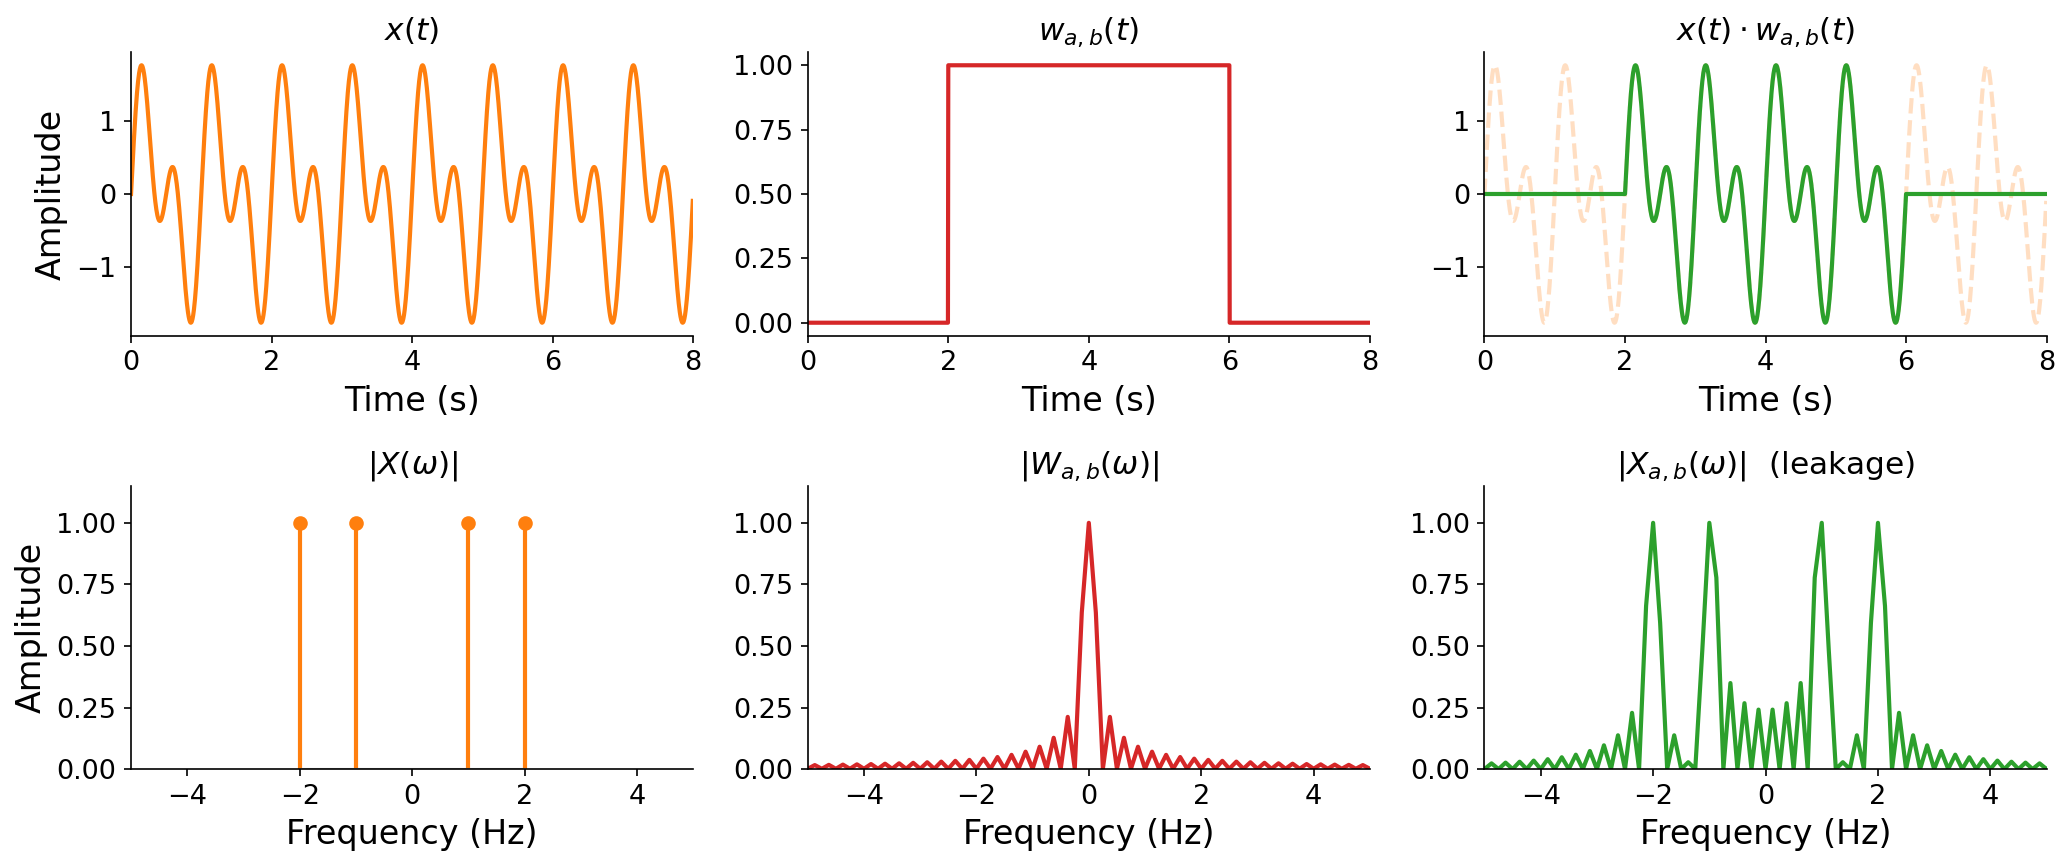
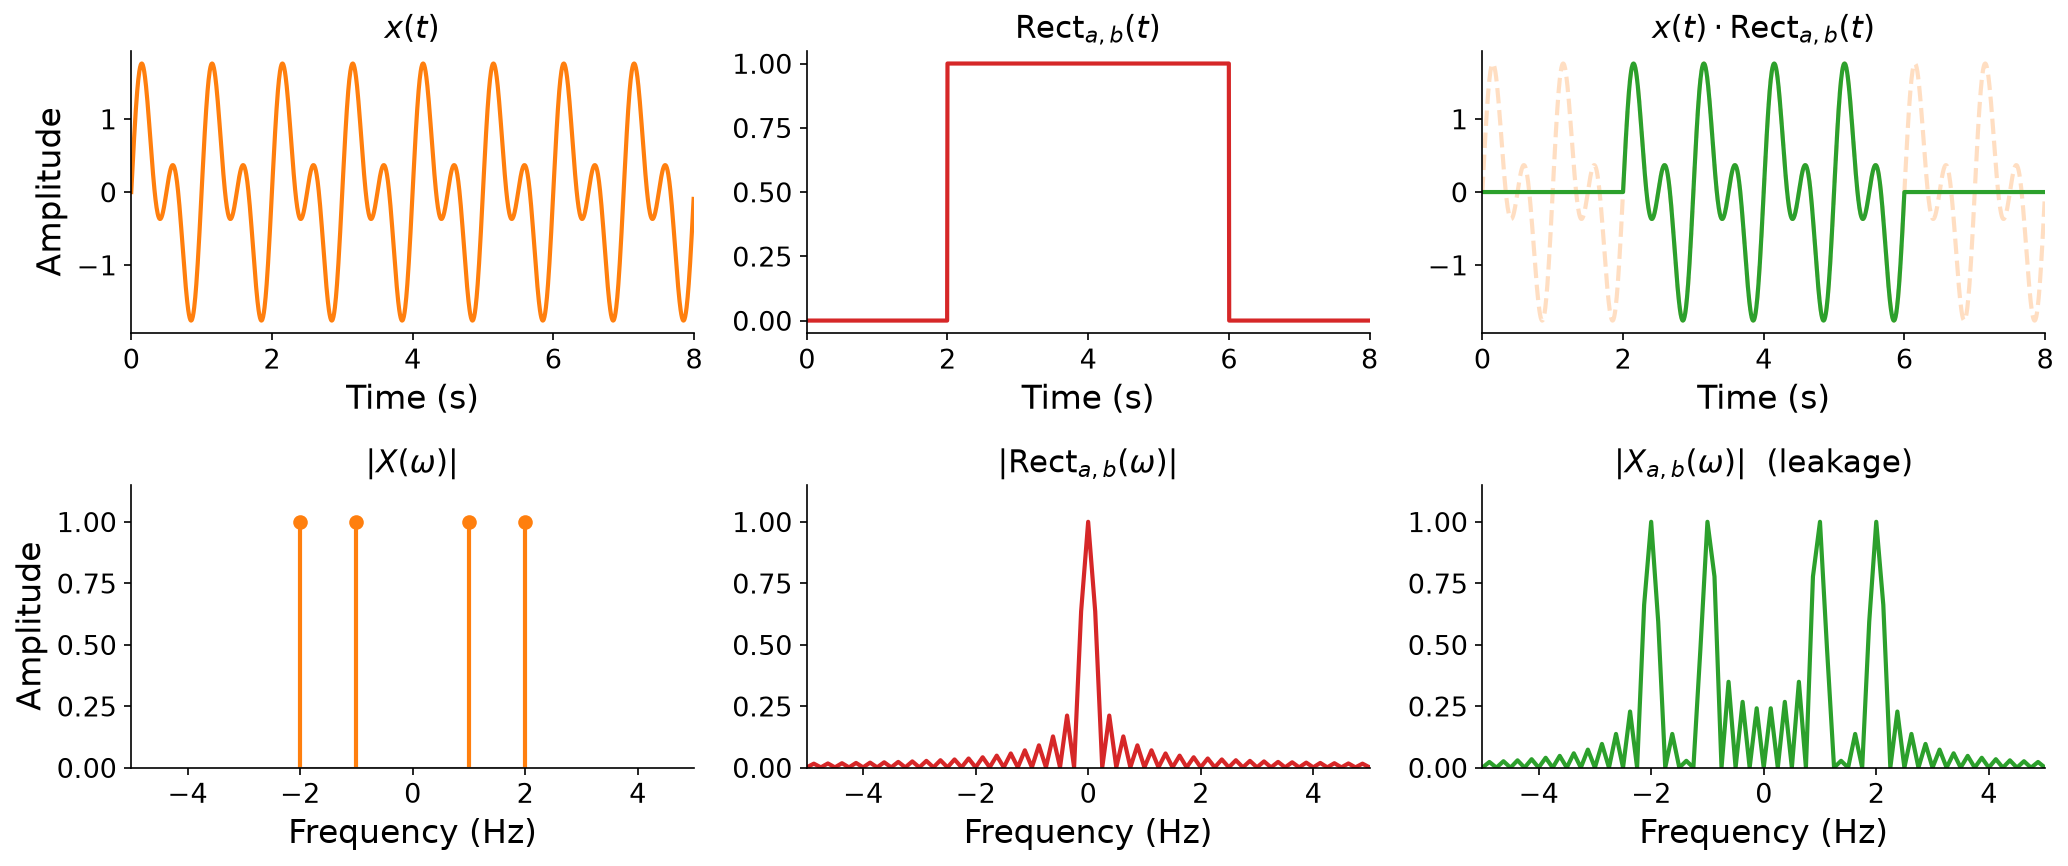
(Claude) Addressing comments

diff --git a/08-dft/figures/make_figures.py b/08-dft/figures/make_figures.py
@@ -54,14 +54,14 @@ def stem(ax, xs, ys, color, ms=7, lw=2.0):
 # ---------------------------------------------------------------------------
 
 
-def fig_windowing() -> None:
+def _windowing_fig(name: str, wname: str, make_window) -> None:
     # Same running example as Chapter 7: x(t) = sin(2 pi t) + sin(2 pi 2 t).
     fs = 200.0
     dur = 8.0
     t = np.arange(int(dur * fs)) / fs
     x = np.sin(2 * np.pi * 1 * t) + np.sin(2 * np.pi * 2 * t)
     a, b = 2.0, 6.0
-    w = ((t >= a) & (t <= b)).astype(float)
+    w = make_window(t, a, b)
     xw = x * w
 
     def spectrum(sig):
@@ -75,10 +75,10 @@ def fig_windowing() -> None:
     axes[0, 0].set_title(r"$x(t)$", fontsize=15)
     axes[0, 0].set_ylabel("Amplitude")
     axes[0, 1].plot(t, w, color=RED)
-    axes[0, 1].set_title(r"$w_{a,b}(t)$", fontsize=15)
+    axes[0, 1].set_title(rf"$\mathrm{{{wname}}}_{{a,b}}(t)$", fontsize=15)
     axes[0, 2].plot(t, x, color=ORANGE, alpha=0.25, ls="--")
     axes[0, 2].plot(t, xw, color=GREEN)
-    axes[0, 2].set_title(r"$x(t)\cdot w_{a,b}(t)$", fontsize=15)
+    axes[0, 2].set_title(rf"$x(t)\cdot \mathrm{{{wname}}}_{{a,b}}(t)$", fontsize=15)
     for ax in axes[0]:
         ax.set_xlabel("Time (s)")
         ax.set_xlim(0, dur)
@@ -89,7 +89,7 @@ def fig_windowing() -> None:
     axes[1, 0].set_ylabel("Amplitude")
     fw, Sw = spectrum(w)
     axes[1, 1].plot(fw, Sw, color=RED)
-    axes[1, 1].set_title(r"$|W_{a,b}(\omega)|$", fontsize=15)
+    axes[1, 1].set_title(rf"$|\mathrm{{{wname}}}_{{a,b}}(\omega)|$", fontsize=15)
     fxw, Sxw = spectrum(xw)
     axes[1, 2].plot(fxw, Sxw, color=GREEN)
     axes[1, 2].set_title(r"$|X_{a,b}(\omega)|$  (leakage)", fontsize=15)
@@ -97,7 +97,26 @@ def fig_windowing() -> None:
         ax.set_xlabel("Frequency (Hz)")
         ax.set_xlim(-5, 5)
         ax.set_ylim(0, 1.15)
-    save_fig("fig-windowing.png")
+    save_fig(name)
+
+
+def _rect_window(t, a, b):
+    return ((t >= a) & (t <= b)).astype(float)
+
+
+def _hann_window(t, a, b):
+    inside = (t >= a) & (t <= b)
+    w = np.zeros_like(t)
+    w[inside] = 0.5 * (1 - np.cos(2 * np.pi * (t[inside] - a) / (b - a)))
+    return w
+
+
+def fig_windowing() -> None:
+    _windowing_fig("fig-windowing.png", "Rect", _rect_window)
+
+
+def fig_windowing_hann() -> None:
+    _windowing_fig("fig-windowing-hann.png", "Hann", _hann_window)
 
 
 # ---------------------------------------------------------------------------
@@ -282,6 +301,7 @@ def clarinet_resynth(A) -> None:
 def main() -> None:
     print("Figures:")
     fig_windowing()
+    fig_windowing_hann()
     fig_dft_bins()
     fig_fft_schematic()
     print("Clarinet analysis:")

diff --git a/08-dft/index.md b/08-dft/index.md
@@ -42,13 +42,16 @@ We already saw the key trick in [Chapter 7](../07-sampling-theory) when we analy
 
 ### Windowing
 
-To leverage a similar trick here, we first define a {vocab}`window` function $w_{a,b}(t)$ that is non-zero over the interval of interest and 0 everywhere else:
-
-CLAUDE: I've redefined define window as general $w_{a,b}$. also define a rectangular window $\text{Rect}_{a,b}$ as the original defintion. update the figure accordingly
-CLAUDE: I'm not totally sure what to do about the edge cases for the general definition. should it be $\geq 0$ over $[a, b]$? or $> 0$ over $(a, b)$? or osmething else?
+To leverage a similar trick here, we first define a {vocab}`window` function $w_{a,b}(t)$. In general, a window is any function that is zero outside the interval of interest $[a, b]$ and non-negative within it:
 
 $$
-w_{a,b}(t) = \begin{cases} > 0 & \text{if } a < t < b, \\ 0 & \text{otherwise.} \end{cases}
+w_{a,b}(t) \; \begin{cases} \geq 0 & \text{if } a \leq t \leq b, \\ = 0 & \text{otherwise.} \end{cases}
+$$
+
+The specific _shape_ of the window inside $[a, b]$ is a design choice, and different shapes trade off different properties (as we will see shortly). The simplest choice is the {vocab}`rectangular window`, which is exactly 1 on the interval and 0 outside:
+
+$$
+\text{Rect}_{a,b}(t) = \begin{cases} 1 & \text{if } a \leq t \leq b, \\ 0 & \text{otherwise.} \end{cases}
 $$
 
 The idea is that a finite signal defined on $[a, b]$ can be viewed as an infinitely long signal _multiplied_ by a corresponding rectangular window. Multiplying zeroes out everything outside $[a, b]$ and leaves the signal untouched inside it. The figure below shows the effect in both domains, using the same running example as [Chapter 7](../07-sampling-theory), $x(t) = \sin(2\pi t) + \sin(2\pi 2 t)$:
@@ -56,7 +59,7 @@ The idea is that a finite signal defined on $[a, b]$ can be viewed as an infinit
 :::{figure}
 ![A two-by-three grid. Top row (time): the signal x(t), a rectangular window that is 1 on [a,b], and their product, which keeps the signal only inside the window. Bottom row (frequency): the ideal spectrum of x(t) with sharp spikes at plus and minus 1 and 2 Hz, the window's spectrum which is a sinc function with a central lobe and decaying side lobes, and the windowed spectrum, in which each sharp spike has been smeared into a sinc-shaped lobe.](./assets/fig-windowing.png)
 
-Windowing a signal to a finite interval, viewed in both domains. Multiplying $x(t)$ by the window $w_{a,b}(t)$ (top) has a side effect in the frequency domain (bottom): each sharp spectral line of $|X(\omega)|$ is smeared into a lobe, a phenomenon called _spectral leakage_.
+Windowing a signal to a finite interval, viewed in both domains. Multiplying $x(t)$ by the rectangular window $\text{Rect}_{a,b}(t)$ (top) has a side effect in the frequency domain (bottom): each sharp spectral line of $|X(\omega)|$ is smeared into a lobe, a phenomenon called _spectral leakage_.
 :::
 
 Windowing was not free. Comparing the bottom-left and bottom-right panels, the sharp spectral spikes of the original signal have been _smeared_ into lobes. This blurring is called {vocab}`spectral leakage`: energy from each true frequency "leaks" into neighboring frequencies. We can still make out the basic shape of the spectrum, with peaks near the true frequencies of 1 and 2 Hz, but it is no longer exact.
@@ -65,11 +68,21 @@ Windowing was not free. Comparing the bottom-left and bottom-right panels, the s
 Leakage comes from the window's own spectrum (the middle panel), which is a [_sinc_](https://en.wikipedia.org/wiki/Sinc_function) function rather than a single spike. As we noted in [Chapter 7](../07-sampling-theory), multiplication in time is convolution in frequency, so the true spectrum gets convolved with (smeared by) the window's sinc.
 :::
 
-Spectral leakage is the price of analyzing a finite slice of time, and it is unavoidable. However, we can potentially mitigate it, by using a window function with a more well-behaved spectrum. A common choice is the _Hann window_:
+Spectral leakage is the price of analyzing a finite slice of time, and it is unavoidable. However, we can potentially mitigate it by using a window whose own spectrum is better behaved than the rectangular window's sinc. The abrupt jumps at the edges of the rectangular window are what create its strong side lobes; a window that instead _tapers smoothly_ to zero at both ends has a much more compact spectrum. A common choice is the {vocab}`Hann window`, a raised cosine that rises from zero at $a$ to a peak at the center and back to zero at $b$:
 
-CLAUDE: define the $\text{Hann}_{a,b}(t)$ window here, include the same 2 row 3 column figure except w/ hann window instead
+$$
+\text{Hann}_{a,b}(t) = \begin{cases} \dfrac{1}{2}\left[1 - \cos\!\left(2\pi\,\dfrac{t - a}{b - a}\right)\right] & \text{if } a \leq t \leq b, \\[2mm] 0 & \text{otherwise.} \end{cases}
+$$
 
-We will revisit other implications of windowing when we study frame-based processing in chapter 10. For now, we'll assume that we're applying rectangular windows.
+Repeating the same experiment with a Hann window in place of the rectangular one, the leakage is visibly reduced. The window's spectrum (middle) has far smaller side lobes, so the windowed spectrum (bottom right) concentrates each component's energy more tightly around its true frequency:
+
+:::{figure}
+![A two-by-three grid like the previous one, but with a Hann window. Top row (time): the signal x(t), a smooth bell-shaped Hann window that rises from zero at a to a peak of 1 at the center and back to zero at b, and their product, which fades the signal in and out. Bottom row (frequency): the ideal spectrum of x(t), the Hann window's spectrum with a slightly wider central lobe but dramatically smaller side lobes than the sinc, and the windowed spectrum, in which each component is a clean lobe with little energy leaking far away.](./assets/fig-windowing-hann.png)
+
+The same windowing experiment with a Hann window. Compared to the rectangular window, the Hann window's spectrum (middle) has much smaller side lobes, so its spectral leakage (bottom right) is more contained, at the cost of a slightly wider central lobe.
+:::
+
+We will revisit other implications of windowing, including this central-lobe-versus-side-lobe tradeoff, when we study frame-based processing in [Chapter 10](../10-frame-proc). For now, we'll assume that we're applying rectangular windows.
 
 ### The windowed Fourier transform
 
@@ -161,7 +174,7 @@ $$\texttt{DFT}(x)[k] \triangleq \sum_{n=0}^{N-1} x[n]\, e^{-2\pi j k n / N}, \qq
 
 Intuitively, the DFT does exactly what the Fourier transform did, just over a finite set of frequencies. For each of the $N$ {vocab}`bins` $k$ (the name for these discrete analysis frequencies), it synthesizes a phasor at $\omega_k$, multiplies it by the signal to measure their similarity, and sums the result. We are effectively _searching_ a finite set of bins for frequencies that resemble the signal.
 
-CLAUDE: Add a transition here. something like "Another observation is that the DFT is no longer a function of the sampling rate $f_s$. Instead, it is a function of $N$, the number of samples. This is perhaps counterintuitive, because we originally defined the bin frequencies $\omega_k$ based on dividing the sample rate by $N$."
+Another observation is that the DFT is no longer a function of the sampling rate $f_s$ at all. Instead, it depends only on $N$, the number of input samples. This is perhaps counterintuitive, since we originally defined the bin frequencies $\omega_k$ by dividing the sampling rate by $N$. The sampling rate has not vanished, though: it is still what tells us the _physical_ frequency, in Hz, that each bin corresponds to. To see this, it helps to work out how far apart adjacent bins are.
 
 :::{prf:definition} DFT bin spacing
 :label: def-bin-spacing
@@ -192,7 +205,6 @@ $$A[k] = \sqrt{R^2[k] + I^2[k]}, \qquad \phi[k] = \tan^{-1}\!\frac{I[k]}{R[k]}.$
 
 The following interactive example makes the "multiply by a phasor and sum" intuition concrete, in the spirit of the winding visualization from [Chapter 5](../05-frequency-domain). Adjust the frequency of a real input sinusoid and the frequency of the probing phasor, and watch the wound-up signal and its center of mass in the complex plane. When the probe frequency matches a bin containing signal energy, the center of mass swings far from the origin:
 
-CLAUDE: need to use color map for complex plane in this widget to see time elapsing in the wound DFT. overlay the red average dot on _top_ of the color map. make sure the input / probe frequency sliders have exactly the same range, if that's not already the case.
 :::{interactive}[notebooks/dft-winding.ipynb]
 :::
 
@@ -362,7 +374,6 @@ The clarinet's amplitude spectrum from the DFT. The fundamental sits at $f_0 \ap
 
 From these two plots we can read off, by eye, a recipe for the sound: its _fundamental frequency_ ($f_0 \approx 300$ Hz), the _amplitudes of its harmonics_ (strong odds, weak evens, taken from the spectral peaks), and the shape of its _envelope_ (from the time-domain outline). The interactive example below performs this analysis in code:
 
-CLAUDE: in this notebook, replace pq.plot_spec(clarinet) w/ pq.plot_freq(clarinet). still commented out, just telling readers that pq.plot_freq is a built-in pyquist shortcut for inspecting audio in the frequency domain
 :::{interactive}[notebooks/clarinet-analysis.ipynb]
 :::
 
